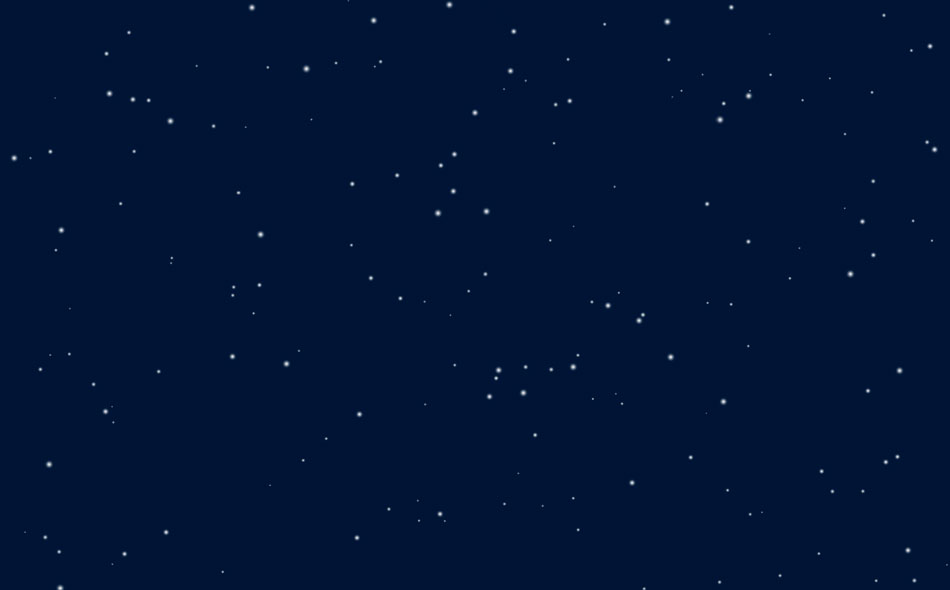
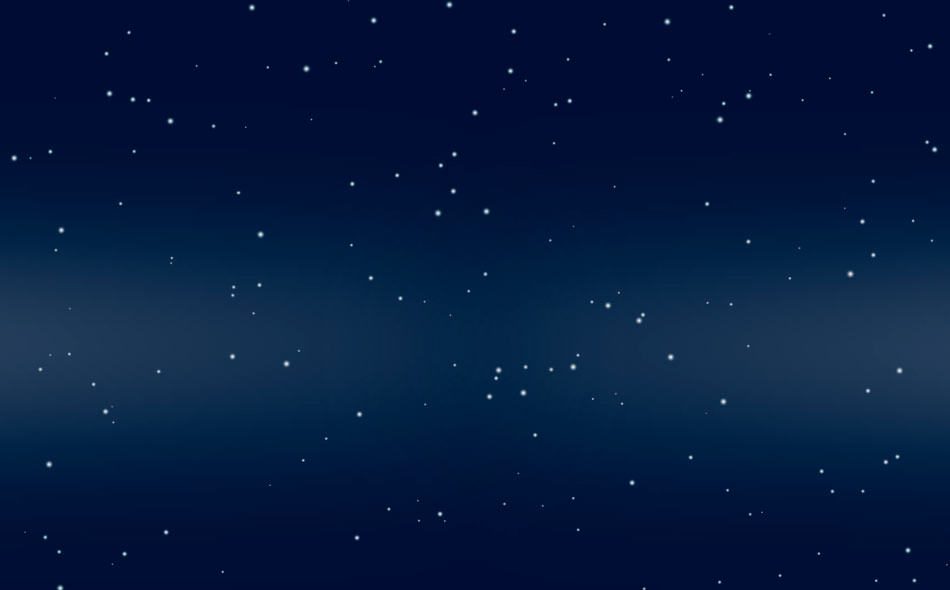
add: scrolling background

Changed region(s): [[0.6105, 0.4576, 1.0, 0.7322], [0.0, 0.4271, 0.3968, 0.7322]]

diff --git a/js/game.js b/js/game.js
@@ -8,42 +8,64 @@ gameScene.init = function() {
 var cursors;
 gameScene.preload = function() {
 
-    // game.load.baseURL = 'http://examples.phaser.io/assets/';
-    // game.load.crossOrigin = 'anonymous';
-    this.load.image('background', 'assets/background.jpg');
-    this.load.image('player', 'assets/spaceship.png');
-    this.load.image('particle', 'assets/yellow.png');
+  // game.load.baseURL = 'http://examples.phaser.io/assets/';
+  // game.load.crossOrigin = 'anonymous';
+  this.load.image('background', 'assets/background.jpg');
+  this.load.image('star_field', 'assets/star.png');
+  this.load.image('player', 'assets/spaceship.png');
+  this.load.image('particle', 'assets/yellow.png');
 
 
 }
 gameScene.create = function() {
-    this.add.sprite(0, 0, 'background');
+  let windowWidth = window.innerWidth;
+  let windowHeight = window.innerHeight;
+  let topBackgroundXOrigin = windowWidth / 2;
+  let topBackgroundYOrigin = (windowHeight / 5) * 1.5;
+  let topBackgroundHeight = (windowHeight / 5) * 3;
+  let imageBaseWidth = 1920;
+  let imageBaseHeight = 1080;
+  let heightRatio = topBackgroundHeight / imageBaseHeight;
 
-    cursors = this.input.keyboard.createCursorKeys();
-    var particles = this.add.particles('particle');
+  this.add.sprite(0, 0, 'background');
+  this.background1 = this.add.tileSprite(topBackgroundXOrigin, topBackgroundYOrigin, imageBaseWidth, imageBaseHeight, 'background');
+  this.background1.setScale(1.2);
 
-    var emitter = particles.createEmitter({
-        speed: 10,
-        scale: { start: 1, end: 0 },
-        blendMode: 'ADD'
-    });
-    this.player = this.physics.add.sprite(200, this.sys.game.config.height / 2,'player');
-    this.player.setScale(0.8);
-        emitter.startFollow(this.player);
+  cursors = this.input.keyboard.createCursorKeys();
+
+  var particles = this.add.particles('particle');
+  var emitter = particles.createEmitter({
+    speed: 10,
+    scale: {
+      start: 0.5,
+      end: 0
+    },
+    blendMode: 'ADD'
+  });
+
+
+  this.player = this.physics.add.sprite(200, this.sys.game.config.height / 2, 'player');
+  this.player.setScale(0.8);
+
+  emitter.startFollow(this.player);
+  this.star_field1 = this.add.tileSprite(topBackgroundXOrigin, topBackgroundYOrigin, imageBaseWidth, imageBaseHeight, 'star_field');
+  this.star_field1.setScale(1.2);
+  this.star_field2 = this.add.tileSprite(topBackgroundXOrigin, topBackgroundYOrigin, imageBaseWidth, imageBaseHeight, 'star_field');
+  this.star_field2.setScale(1.5);
 };
 
 let config = {
-  type: Phaser.AUTO,    //webgl/canvas
+  type: Phaser.AUTO, //webgl/canvas
   width: 760,
-  height: 320,
+  height: 380,
   transparent: true,
   physics: {
-          default: 'arcade',
-          arcade: {
-              // gravity: { y: 300 },
-              debug: false
-          }
-      },
+    default: 'arcade',
+    arcade: {
+      // gravity: { y: 300 },
+      debug: false
+    }
+  },
 
   scene: gameScene
 };
@@ -52,29 +74,22 @@ let game = new Phaser.Game(config);
 
 
 gameScene.update = function() {
-  if (cursors.left.isDown)
-  {
-      this.player.setVelocityX(-160);
+  this.star_field2.x -= 0.5;
+  this.star_field1.x -= 0.3;
+  this.background1.x -= 0.25;
+  if (cursors.left.isDown) {
+    this.player.setVelocityX(-160);
+  } else if (cursors.right.isDown) {
+    this.player.setVelocityX(160);
+  } else {
+    this.player.setVelocityX(0);
   }
-  else if (cursors.right.isDown)
-  {
-      this.player.setVelocityX(160);
-  }
-  else
-  {
-      this.player.setVelocityX(0);
-  }
-  if (cursors.up.isDown)
-  {
-      this.player.setVelocityY(-160);
-  }
-  else if (cursors.down.isDown)
-  {
-      this.player.setVelocityY(160);
-  }
-  else
-  {
-      this.player.setVelocityY(0);
+  if (cursors.up.isDown) {
+    this.player.setVelocityY(-160);
+  } else if (cursors.down.isDown) {
+    this.player.setVelocityY(160);
+  } else {
+    this.player.setVelocityY(0);
   }
 
 };
